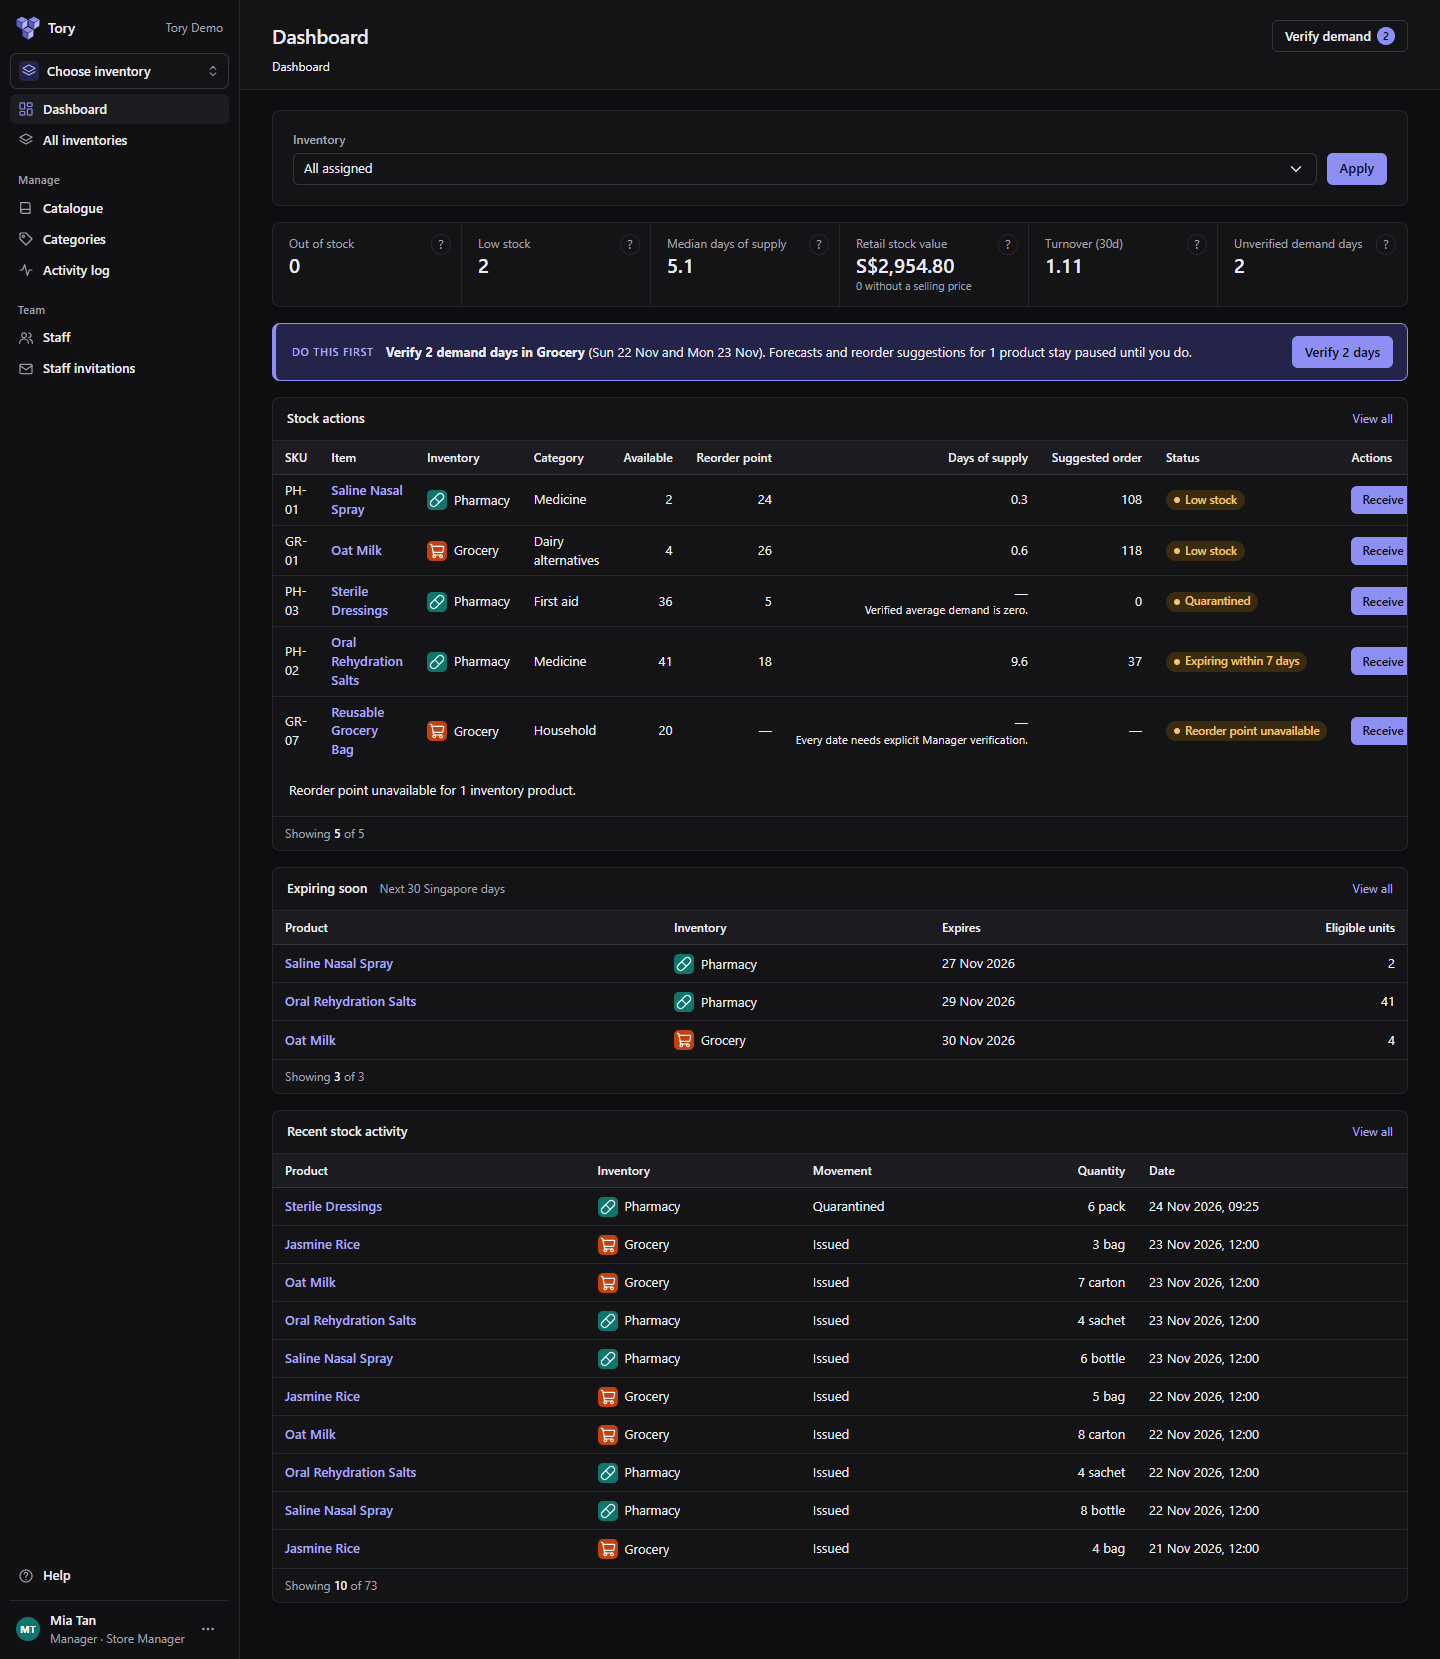
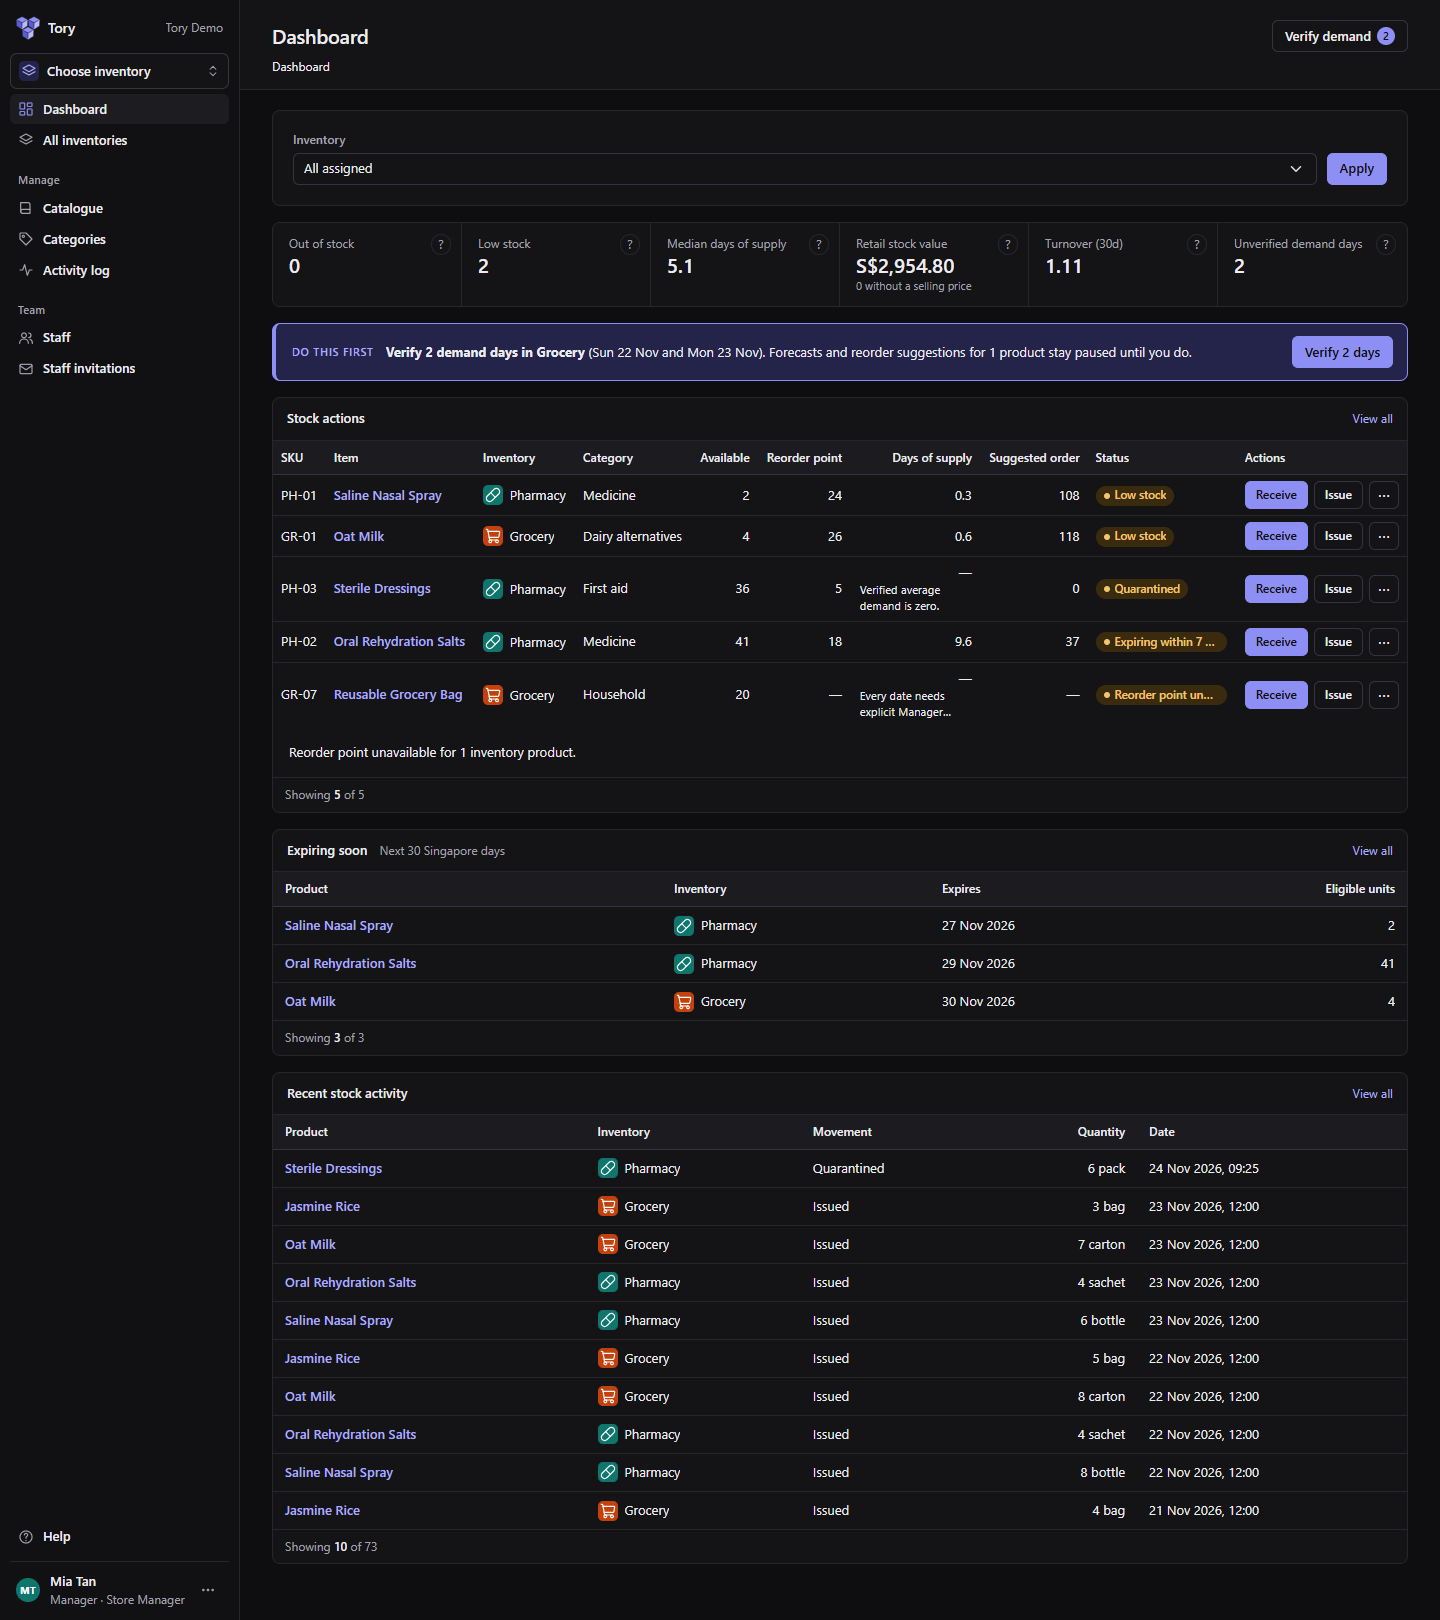
docs(evidence): retake dashboard screenshots on v1.2.3
03-dashboard light/dark and the 390px dashboard, after the TORY-70 fix.

diff --git a/docs/evidence/v1.2/README.md b/docs/evidence/v1.2/README.md
@@ -6,6 +6,8 @@ Captured on 24 Nov 2026 from the live staging site (https://104-208-96-230.sslip
 - Desktop: 1440 px wide, light and dark theme, each page captured to its full height. Pages `01`–`21` are signed in
   as the demo Manager (Grocery inventory, product Oat Milk); `22`–`23` are signed in as the demo Staff user.
 - Phone: 390 px wide, dashboard and product overview, light and dark (`mobile-390-*`).
+- `03-dashboard-light/dark` and `mobile-390-dashboard-light/dark` were retaken the same day on **v1.2.3** (image
+  `sha-6bdcf13`), after the TORY-70 fix for clipped dashboard row actions. All other images are v1.2.2.
 - No passwords are shown: the sign-in and change-password fields are empty, and the capture script
   checked that neither generated demo password appeared anywhere in a page's HTML.
 
